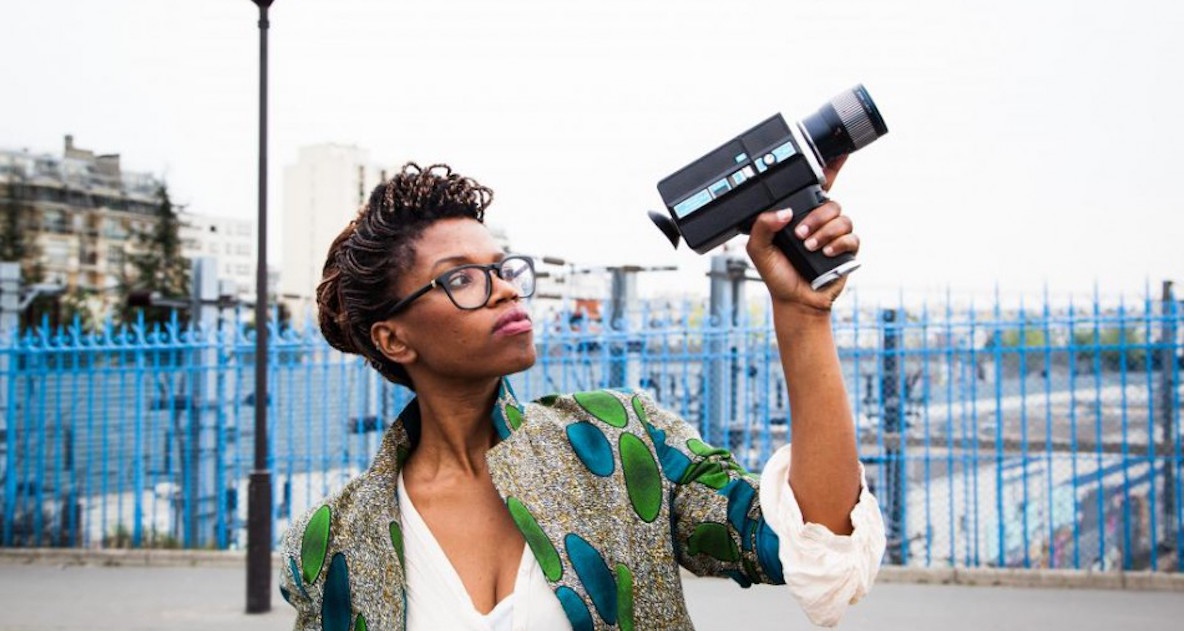
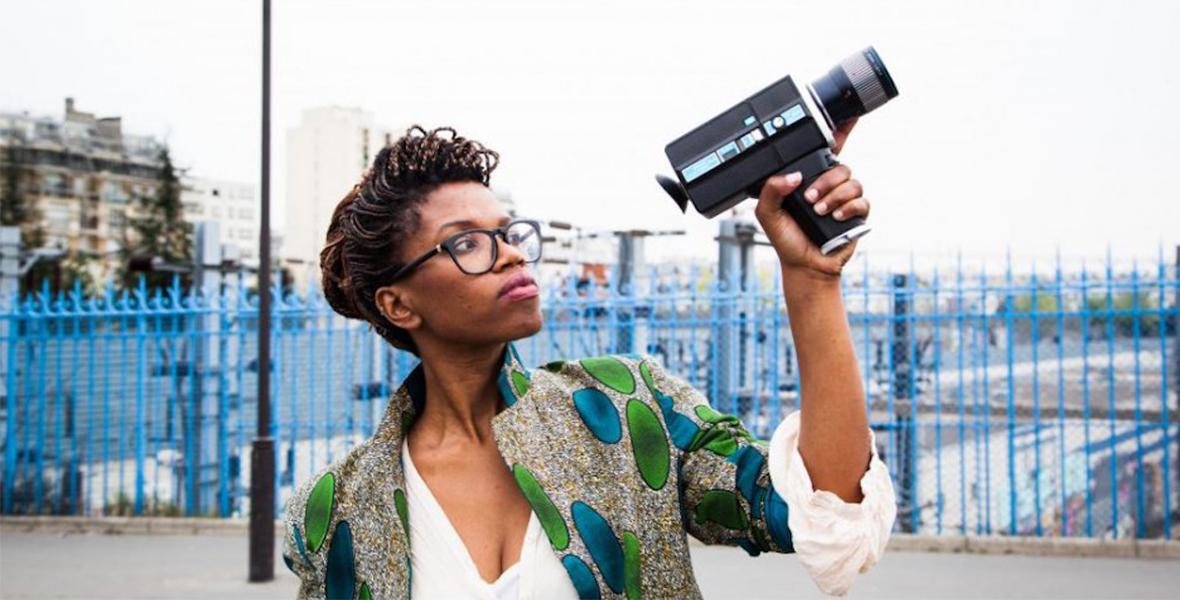
pics size

diff --git a/MMFFWeb/index.html b/MMFFWeb/index.html
@@ -54,7 +54,7 @@
     
     
     <section class="main-slider">
-  <div id="myCarousel" class="carousel slide " data-ride="carousel">
+  <div id="myCarousel" class="carousel slide carousel-fade" data-ride="carousel">
 
 
     <!-- Indicators -->
@@ -63,8 +63,9 @@
       <li data-target="#myCarousel" data-slide-to="1"></li>
       <li data-target="#myCarousel" data-slide-to="2"></li>
       <li data-target="#myCarousel" data-slide-to="3"></li>
-              <li data-target="#myCarousel" data-slide-to="4"></li>
-              <li data-target="#myCarousel" data-slide-to="5"></li>
+      <li data-target="#myCarousel" data-slide-to="4"></li>
+      <li data-target="#myCarousel" data-slide-to="5"></li>
+      <li data-target="#myCarousel" data-slide-to="6"></li>
 
     </ol>
 
@@ -74,17 +75,25 @@
 
       <!-- Slide 1 : Active -->
       <div class="item active"  align="center">
-        <img src="Pics/95%20and%206%20to%20go%20logo.jpg" alt="95and6togo" width=100%>
+          <a  target="_blank" href="http://www.95and6togo.com/"><img src="Pics/95%20and%206%20to%20go%20logo.jpg" alt="95and6togo" ></a>
+        
         <div style="overflow:auto;" class="flex-center carousel-caption animated fadeInUp" >
-          <h3>Black Radical Cinema at Amherst College and Smith College: </h3>
+          <h3>95 AND 6 TO GO </h3>
     
-            <p>"Parallel Worlds" will take place on Tuesday, November 1st in Amherst College's Keefe Campus Center at 7 pm. The screening features five films by filmmaker Ephraim Asili that explore the artist's relationship to the African diaspora.<a href="staff.html" class="btn  btn-white-outline hvr-grow-shadow">More</a> </p>
+            <p>
+
+A film by Kimi Takesue
+                <br>
+
+Filmmaker Kimi Takesue turns her camera on her resilient grandfather who has lived in Honolulu for nearly a century. As she captures the cadence of Grandpa Tom’s daily life he shares his story of immigration, love, love and endurance.
+<br>
+Unexpectedly, he becomes intrigued by her stalled romantic screenplay and offers advice that is as shrewd as it is surprising. Shot over six years, this intimate meditation on family and absence expands the vernacular of the “home movie” to consider how history is accumulated in the everyday and how sparks of humor and creativity can animate an ordinary life.<a  target="_blank" href="staff.html" class="btn  btn-white-outline hvr-grow-shadow">More</a> </p>
         </div><!-- /.carousel-caption -->
       </div><!-- /Slide1 -->
 
       <!-- Slide 2 -->
       <div class="item "align="center">
-        <img src="Pics/decasia%206.jpg" alt="decasia"  width=100%>
+       <a target="_blank" href="http://billmorrisonfilm.com/feature-length-films/decasia/1"><img src="Pics/decasia%206.jpg" alt="decasia"></a> 
         <div class="flex-center carousel-caption animated fadeInUp">
           <h3>Slide 2</h3>
                <hr>
@@ -94,7 +103,7 @@
 
       <!-- Slide 3 -->
       <div class="item "align="center">
-        <img src="Pics/kill%20the%20irishman%202.jpg" alt="killtheirishman"  width=100% >
+      <a target="_blank" href="http://www.imdb.com/title/tt1416801/"> <img src="Pics/kill%20the%20irishman%202.jpg" alt="killtheirishman" ></a> 
         <div class="flex-center carousel-caption animated fadeInUp">
           <h3>Slide 3</h3>
                <hr>
@@ -104,7 +113,7 @@
 
       <!-- Slide 4 -->
       <div class="item " align="center">
-        <img src="Pics/cafe%20nagler.jpg"  alt="">
+          <a target="_blank" href="http://www.go2films.com/Family-Social-issues/Cafe-Nagler"> <img src="Pics/cafe%20nagler.jpg"  alt=""></a>
         <div class="flex-center carousel-caption animated fadeInUp">
           <h3>Slide 4</h3>  
             <hr>
@@ -114,23 +123,39 @@
         
          <!-- Slide 5 -->
       <div class="item " align="center">
-        <img src="Pics/nedar%20SMALL.jpg" alt="" width="100%">
+                <a target="_blank" href="http://www.imdb.com/title/tt1317484/">
+                    <img src="Pics/nedar%20SMALL.jpg" alt="" width="100%">
+          </a>
         <div class="flex-center carousel-caption animated fadeInUp">
           <h3>Slide 5</h3>
                <hr>
           <p>Pellentesque ornare sem lacinia quam venenatis vestibulum.</p>
         </div><!-- /.carousel-caption -->
-      </div><!-- /Slide4 -->
+      </div><!-- /Slide5 -->
          <!-- Slide 6 -->
       <div class="item " align="center">
-        <img src="Pics/the%20revolution%202.jpg" alt="" width="100%">
+                    <a target="_blank" href="http://boxoffice.hotdocs.ca/WebSales/pages/info.aspx?evtinfo=50818~edeed7b8-5598-4ac6-994a-ca71bc407bc4&epguid=1982376d-17a7-4bb4-9959-f38bb053d10d&">
+                              <img src="Pics/the%20revolution%202.jpg" alt="" width="100%">
+          </a>
         <div class="flex-center carousel-caption animated fadeInUp">
           <h3>Slide 6</h3>
                <hr>
           <p>Pellentesque ornare sem lacinia quam venenatis vestibulum.</p>
         </div><!-- /.carousel-caption -->
-      </div><!-- /Slide4 -->
+      </div><!-- /Slide6 -->
 
+            <!-- Slide 7 -->
+      <div class="item " align="center">
+          <a target="_blank" href="https://www.hampshire.edu/news/2016/07/26/holding-hands-with-ilse">
+        <img src="Pics/holdinghands.jpg" alt="" width="100%">
+          </a>
+        <div class="flex-center carousel-caption animated fadeInUp">
+          <h3>Slide 7</h3>
+               <hr>
+          <p>Pellentesque ornare sem lacinia quam venenatis vestibulum.</p>
+        </div><!-- /.carousel-caption -->
+      </div><!-- /Slide7 -->
+        
     </div><!-- /.carousel-inner -->
 
 

diff --git a/MMFFWeb/css/modern.css b/MMFFWeb/css/modern.css
@@ -1,4 +1,4 @@
-
+body
 /* Carousel Fading slide */
 .carousel-fade .carousel-inner { 
       
@@ -19,6 +19,9 @@
   .carousel-fade .next.left,
   .carousel-fade .prev.right,
   .carousel-fade .item.active { opacity: 1; }
+.carousel-fade .item >.img{
+    display: none;
+} 
 
   .carousel-fade .active.left,
   .carousel-fade .active.right {
@@ -84,6 +87,7 @@
     padding-bottom: 20px; 
     color: #fff;
     text-align: center;
+    overflow: auto;
     text-shadow: 0 3px 2px rgba(1,1,1,.6);
  
 }.flex-center{
@@ -209,14 +213,12 @@ a:hover {
   transform: translateY(5px);
   /* move the element down by 5px (it will stay in place because it's attached to the element that also moves up 5px) */
 }
-.mmfflogo{
-    padding: 100px 10px 10px 10px;
-}
 
 
-.item {
-    max-height: 10%;
-    overflow: hidden;
+.carousel-inner>.item>a>img, .carousel-inner>.item>img{
+    width: 100%;
+
+    
 }
 
 
